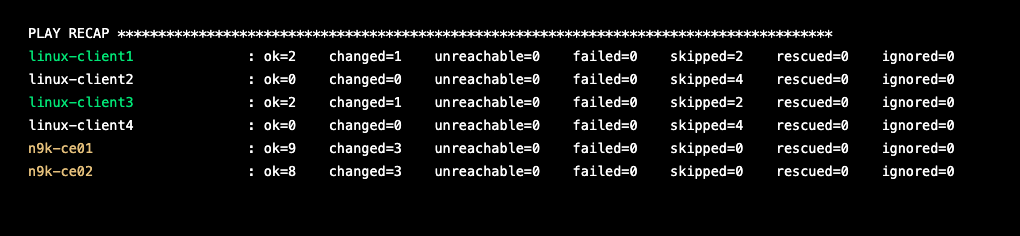
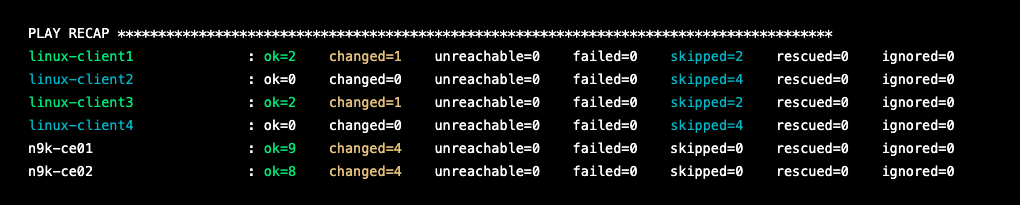
Deployed 8242910 with MkDocs version: 1.6.1

diff --git a/images/task1-recap-output.html b/images/task1-recap-output.html
@@ -26,17 +26,18 @@
   .wh  { color: #ffffff; }
   .ok  { color: #00e676; }
   .chg { color: #e5c07b; }
+  .skp { color: #00b8c8; }
 </style>
 </head>
 <body>
 <div class="terminal">
 <pre><span class="wh">PLAY RECAP ****************************************************************************************</span>
-<span class="ok">linux-client1</span>              <span class="wh">: ok=2    changed=1    unreachable=0    failed=0    skipped=2    rescued=0    ignored=0</span>
-<span class="wh">linux-client2</span>              <span class="wh">: ok=0    changed=0    unreachable=0    failed=0    skipped=4    rescued=0    ignored=0</span>
-<span class="ok">linux-client3</span>              <span class="wh">: ok=2    changed=1    unreachable=0    failed=0    skipped=2    rescued=0    ignored=0</span>
-<span class="wh">linux-client4</span>              <span class="wh">: ok=0    changed=0    unreachable=0    failed=0    skipped=4    rescued=0    ignored=0</span>
-<span class="chg">n9k-ce01</span>                   <span class="wh">: ok=9    changed=3    unreachable=0    failed=0    skipped=0    rescued=0    ignored=0</span>
-<span class="chg">n9k-ce02</span>                   <span class="wh">: ok=8    changed=3    unreachable=0    failed=0    skipped=0    rescued=0    ignored=0</span></pre>
+<span class="ok">linux-client1</span>              <span class="wh">: </span><span class="ok">ok=2</span>    <span class="chg">changed=1</span>    <span class="wh">unreachable=0    failed=0    </span><span class="skp">skipped=2</span>    <span class="wh">rescued=0    ignored=0</span>
+<span class="skp">linux-client2</span>              <span class="wh">: </span><span class="wh">ok=0    changed=0    unreachable=0    failed=0    </span><span class="skp">skipped=4</span>    <span class="wh">rescued=0    ignored=0</span>
+<span class="ok">linux-client3</span>              <span class="wh">: </span><span class="ok">ok=2</span>    <span class="chg">changed=1</span>    <span class="wh">unreachable=0    failed=0    </span><span class="skp">skipped=2</span>    <span class="wh">rescued=0    ignored=0</span>
+<span class="skp">linux-client4</span>              <span class="wh">: </span><span class="wh">ok=0    changed=0    unreachable=0    failed=0    </span><span class="skp">skipped=4</span>    <span class="wh">rescued=0    ignored=0</span>
+<span class="wh">n9k-ce01                   : </span><span class="ok">ok=9</span>    <span class="chg">changed=4</span>    <span class="wh">unreachable=0    failed=0    skipped=0    rescued=0    ignored=0</span>
+<span class="wh">n9k-ce02                   : </span><span class="ok">ok=8</span>    <span class="chg">changed=4</span>    <span class="wh">unreachable=0    failed=0    skipped=0    rescued=0    ignored=0</span></pre>
 </div>
 </body>
 </html>